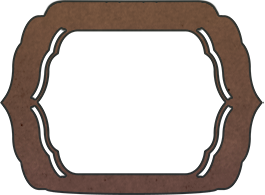
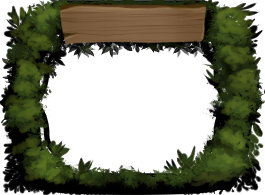
404 Page & Graphics Updates

diff --git a/subscribe.html b/subscribe.html
@@ -1,0 +1,121 @@
+<!--
+!! DO NOT EDIT THIS FILE !!
+It is auto-generated and any work you do here will be replaced the next time this page is generated.
+If you want to edit any of these files, edit their *.tpl versions in src/templates.
+-->
+
+<!DOCTYPE html>
+<html lang="en">
+<head>
+    <meta charset="UTF-8">
+    <link rel="stylesheet" type="text/css" href="src/css/style.css">
+    <link href="https://fonts.googleapis.com/css?family=Rubik|Underdog&display=swap" rel="stylesheet">
+    <link rel="stylesheet" type="text/css" href="./src/css/icons.css">
+
+    <link rel="icon" href="/comic_git/favicon.ico" type="image/x-icon" />
+    <title>Subscribe by Email | Tamberlane</title>
+</head>
+<body>
+
+<header>
+    <div id="logo">
+        <a href="/comic_git"></a>
+    </div>
+    <div id="ComicLinks">
+        <div id="FirstComic"><a href="/comic_git/comic/197.html#comic-page">Page 1</a></div>
+        <div id="LatestComic"><a href="/comic_git/comic/203.html#comic-page">Page 203</a></div>
+        <div id="FirstComicFrame"><h2>Start Here</h2></div>
+        <div id="Flourish"></div>
+        <div id="LatestComicFrame"><h2>Latest Page</h2></div>
+    </div>
+    <ul id="social-links">
+        <li><span>&#9753;</span></li>
+        <li><a href="https://www.webtoons.com/en/challenge/tamberlane/list?title_no=372674" title="Read Tamberlane on Webtoon"><i class="icon-webtoon"><span style="color: #663403;" class="Label">&nbsp;Webtoons</span></i></a></li>
+        <li><a href="http://www.twitter.com/tamberlanecomic" title="Get Updates on Twitter"><i class="icon-twitter"><span style="color: #663403;" class="Label">&nbsp;Twitter</span></i></a></li>
+        <li><a href="https://www.facebook.com/groups/209745269853069/" title="Get Updates on Facebook"><i class="icon-facebook"><span style="color: #663403;" class="Label">&nbsp;Facebook</span></i></a></li>
+        <li><a href="http://tamberlanecomic.tumblr.com/" title="Get Updates on Tumblr"><i class="icon-tumblr"><span style="color: #663403;" class="Label">&nbsp;Tumblr</span></i></a></li>
+        <li><a href="http://www.twitch.tv/tamberlanecomic" title="Watch Comic Livestreams on Twitch"><i class="icon-twitch"><span style="color: #663403;" class="Label">&nbsp;Twitch</span></i></a></li>
+        <li><a href="http://www.youtube.com/c/pixelprism" title="Watch Speeddraws on YouTube"><i class="icon-youtube-play"><span style="color: #663403;" class="Label">&nbsp;YouTube</span></i></a></li>
+        <li><a href="https://www.tamberlanecomic.com/feed/"><i class="icon-rss" title="Subscribe on RSS"><span style="color: #663403;" class="Label">&nbsp;RSS</span></i></a></li>
+        <li><a href="/comic_git/subscribe.html" title="Subscribe via Email"><i class="icon-envelope"><span style="color: #663403;" class="Label">&nbsp;Subscribe</span></i></a></li>
+        <li><span>&#10087;</span></li>
+    </ul>
+    <ul id="links-menu">
+        <li><h3><a href="/comic_git/latest.html">Latest</a></h3></li>
+        <li><h3><a href="/comic_git/archive.html">Archive</a></h3></li>
+        <li><h3><a href="/comic_git/about.html">About</a></h3></li>
+        <li><h3><a href="/comic_git/cast.html">Cast</a></h3></li>
+        <li><h3><a href="https://shop.tamberlanecomic.com">Shop</a></h3></li>
+        <li><h3><a href="http://www.patreon.com/tamberlane">Patreon</a></h3></li>
+        <li class="liveStream"><a href="http://www.twitch.tv/tamberlanecomic"><i class="icon-twitch"></i><h3>&nbsp;Now Live</h3></a></li>
+    </ul>
+
+</header>
+<div id="page">
+        
+<div class="content">
+    <style type="text/css">
+        #mc-embedded-subscribe-form input[type=checkbox]{display: inline; width: auto;margin-right: 10px;}
+        #mergeRow-gdpr {margin-top: 20px;}
+        #mergeRow-gdpr fieldset label {font-weight: normal;}
+        #mc-embedded-subscribe-form .mc_fieldset{border:none;min-height: 0px;padding-bottom:0px;}
+    </style>
+    <div id="mc_embed_signup">
+        <form action="https://tamberlanecomic.us14.list-manage.com/subscribe/post?u=1019a29148e4e5193c1f0bbdd&amp;id=6612f3a2e9" method="post" id="mc-embedded-subscribe-form" name="mc-embedded-subscribe-form" class="validate" target="_blank" novalidate>
+            <div id="mc_embed_signup_scroll">
+                <h2>Subscribe</h2>
+                <div class="indicates-required"><span><span class="asterisk">*</span> indicates required</span></div>
+                <div class="mc-field-group">
+                    <label for="mce-EMAIL">Email Address  <span class="asterisk">*</span>
+                    </label>
+                    <input type="email" value="" name="EMAIL" class="required email" id="mce-EMAIL">
+                </div>
+                <div class="mc-field-group">
+                    <label for="mce-FNAME">First Name </label>
+                    <input type="text" value="" name="FNAME" class="" id="mce-FNAME">
+                </div>
+                <div class="mc-field-group input-group">
+                    <b>Please email me: </b>
+                    <ul><li><input type="checkbox" value="1" name="group[6335][1]" id="mce-group[6335]-6335-0"><label for="mce-group[6335]-6335-0">Comic Updates</label></li>
+                        <li><input type="checkbox" value="2" name="group[6335][2]" id="mce-group[6335]-6335-1"><label for="mce-group[6335]-6335-1">New Merch &amp; Sales</label></li>
+                        <li><input type="checkbox" value="4" name="group[6335][4]" id="mce-group[6335]-6335-2"><label for="mce-group[6335]-6335-2">News &amp; Kickstarters</label></li>
+                    </ul>
+                </div>
+                <p>Unsure what kind of content we send? Not to worry! You can always <a href="https://us14.campaign-archive.com/home/?u=1019a29148e4e5193c1f0bbdd&id=6612f3a2e9" title="View previous campaigns">view our previous emails</a>.</p>
+                <div id="mergeRow-gdpr" class="mergeRow gdpr-mergeRow content__gdprBlock mc-field-group">
+                    <div class="content__gdpr">
+                        <h3>Marketing Permissions</h3>
+                        <p>Tamberlane will use the information you provide on this form to be in touch with you and to provide updates and marketing. Please let us know all the ways you would like to hear from us:</p>
+                        <fieldset class="mc_fieldset gdprRequired mc-field-group" name="interestgroup_field">
+                            <label class="checkbox subfield" for="gdpr_5731"><input type="checkbox" id="gdpr_5731" name="gdpr[5731]" value="Y" class="av-checkbox "><span>Email</span> </label>
+                        </fieldset>
+                        <p>You can change your mind at any time by clicking the unsubscribe link in the footer of any email you receive from us, or by contacting us at artist@cvilbrandt.com. We will treat your information with respect. For more information about our privacy practices please visit our website. By clicking below, you agree that we may process your information in accordance with these terms.</p>
+                    </div>
+                    <div class="content__gdprLegal">
+                        <p>We use Mailchimp as our marketing platform. By clicking below to subscribe, you acknowledge that your information will be transferred to Mailchimp for processing. <a href="https://mailchimp.com/legal/" target="_blank">Learn more about Mailchimp's privacy practices here.</a></p>
+                    </div>
+                </div>
+                <div id="mce-responses" class="clear">
+                    <div class="response" id="mce-error-response" style="display:none"></div>
+                    <div class="response" id="mce-success-response" style="display:none"></div>
+                </div>    <!-- real people should not fill this in and expect good things - do not remove this or risk form bot signups-->
+                <div style="position: absolute; left: -5000px;" aria-hidden="true"><input type="text" name="b_1019a29148e4e5193c1f0bbdd_6612f3a2e9" tabindex="-1" value=""></div>
+                <div class="clear"><input type="submit" value="Subscribe" name="subscribe" id="mc-embedded-subscribe" class="button"></div>
+            </div>
+        </form>
+    </div>
+
+    <!--End mc_embed_signup-->
+</div>
+
+</div>
+
+<div id="footer">
+    <p>Tamberlane is powered by <a href="https://github.com/ryanvilbrandt/comic_git/">comic_git</a>. &copy; Caytlin Vilbrandt, 2016 - Present.</p>
+</div>
+
+
+</body>
+
+<script src="./src/js/main.js"></script>
+</html>

diff --git a/about.html b/about.html
@@ -37,7 +37,7 @@ If you want to edit any of these files, edit their *.tpl versions in src/templat
         <li><a href="http://www.twitch.tv/tamberlanecomic" title="Watch Comic Livestreams on Twitch"><i class="icon-twitch"><span style="color: #663403;" class="Label">&nbsp;Twitch</span></i></a></li>
         <li><a href="http://www.youtube.com/c/pixelprism" title="Watch Speeddraws on YouTube"><i class="icon-youtube-play"><span style="color: #663403;" class="Label">&nbsp;YouTube</span></i></a></li>
         <li><a href="https://www.tamberlanecomic.com/feed/"><i class="icon-rss" title="Subscribe on RSS"><span style="color: #663403;" class="Label">&nbsp;RSS</span></i></a></li>
-        <li><a href="http://www.webtoons.com" title="Subscribe via Email"><i class="icon-envelope"><span style="color: #663403;" class="Label">&nbsp;Subscribe</span></i></a></li>
+        <li><a href="/comic_git/subscribe.html" title="Subscribe via Email"><i class="icon-envelope"><span style="color: #663403;" class="Label">&nbsp;Subscribe</span></i></a></li>
         <li><span>&#10087;</span></li>
     </ul>
     <ul id="links-menu">
@@ -53,7 +53,20 @@ If you want to edit any of these files, edit their *.tpl versions in src/templat
 </header>
 <div id="page">
         
-<div class="content"></div>
+<div class="content">
+    <div id="about-text"><p>Tamberlane is written, drawn, and maintained by Caytlin Vilbrandt.</p>
+
+        Otherwise known as Pixel Prism, Caytlin lives in the Pacific Northwest with her husband and fuzzy pets, drawing comics for a living. She was inspired by childhood memories when she came up with Tamberlane as an homage to the works of Beatrix Potter, as well as Brian Jacques's Redwall series and other wonderful books. (Other more contemporary inspirations include Steven Universe, Wolf Children, and Moana.) She is also an LGBTQ+ creator and enjoys creating fiction with queer characters doing things that have nothing to do with being queer. She also feels ever-so-slightly weird writing this bio in the third person, but she will nonetheless persevere!
+
+        Caytlin also lives with chronic pain and occasionally has to take short breaks from the comic so she can heal, much to her deep regret. Thanks for your patience!
+
+        You can contact her at artist@cvilbrandt.com.</div>
+    <div id="about-photo"></div>
+</div>
+
+<div class="content">
+    <div id="reviews"></div>
+</div>
 
 </div>
 

diff --git a/404.html b/404.html
@@ -37,7 +37,7 @@ If you want to edit any of these files, edit their *.tpl versions in src/templat
         <li><a href="http://www.twitch.tv/tamberlanecomic" title="Watch Comic Livestreams on Twitch"><i class="icon-twitch"><span style="color: #663403;" class="Label">&nbsp;Twitch</span></i></a></li>
         <li><a href="http://www.youtube.com/c/pixelprism" title="Watch Speeddraws on YouTube"><i class="icon-youtube-play"><span style="color: #663403;" class="Label">&nbsp;YouTube</span></i></a></li>
         <li><a href="https://www.tamberlanecomic.com/feed/"><i class="icon-rss" title="Subscribe on RSS"><span style="color: #663403;" class="Label">&nbsp;RSS</span></i></a></li>
-        <li><a href="http://www.webtoons.com" title="Subscribe via Email"><i class="icon-envelope"><span style="color: #663403;" class="Label">&nbsp;Subscribe</span></i></a></li>
+        <li><a href="/comic_git/subscribe.html" title="Subscribe via Email"><i class="icon-envelope"><span style="color: #663403;" class="Label">&nbsp;Subscribe</span></i></a></li>
         <li><span>&#10087;</span></li>
     </ul>
     <ul id="links-menu">
@@ -53,9 +53,14 @@ If you want to edit any of these files, edit their *.tpl versions in src/templat
 </header>
 <div id="page">
         
-<div class="content">
-    <div id="page-title"><h1>404: Page Not Found</h1></div>
-<p>THIS SHIT BROKE YO!</p>
+<div id="page404">
+    <div id="belfry404"></div>
+    <div id="content404">
+        <div id="page-title"><h1>404: Page Not Found</h1></div>
+        <p>Whoopsidoodle! Whatever page you were looking for, it looks like Belfry misplaced it! Sorry about that...</p>
+        <p>Check the spelling in your URL, or maybe try one of these links on for size:</p>
+        <p><a href="/index.html">Home</a> &nbsp;|&nbsp; <a href="/latest.html">Latest Comic</a> &nbsp;|&nbsp; <a href="https://shop.tamberlanecomic.com">Shop</a></p>
+    </div>
 </div>
 <!--    <h1 id="page-title">&#9753; Archive &#10087;</h1>-->
 <!--    <div id="archive-blurb">-->

diff --git a/cast.html b/cast.html
@@ -39,7 +39,7 @@ If you want to edit any of these files, edit their *.tpl versions in src/templat
         <li><a href="http://www.twitch.tv/tamberlanecomic" title="Watch Comic Livestreams on Twitch"><i class="icon-twitch"><span style="color: #663403;" class="Label">&nbsp;Twitch</span></i></a></li>
         <li><a href="http://www.youtube.com/c/pixelprism" title="Watch Speeddraws on YouTube"><i class="icon-youtube-play"><span style="color: #663403;" class="Label">&nbsp;YouTube</span></i></a></li>
         <li><a href="https://www.tamberlanecomic.com/feed/"><i class="icon-rss" title="Subscribe on RSS"><span style="color: #663403;" class="Label">&nbsp;RSS</span></i></a></li>
-        <li><a href="http://www.webtoons.com" title="Subscribe via Email"><i class="icon-envelope"><span style="color: #663403;" class="Label">&nbsp;Subscribe</span></i></a></li>
+        <li><a href="/comic_git/subscribe.html" title="Subscribe via Email"><i class="icon-envelope"><span style="color: #663403;" class="Label">&nbsp;Subscribe</span></i></a></li>
         <li><span>&#10087;</span></li>
     </ul>
     <ul id="links-menu">
@@ -62,6 +62,7 @@ If you want to edit any of these files, edit their *.tpl versions in src/templat
         flavor to the comic’s plot through their bold personalities and evolving, complex
         relationships with one another.</p>
     <p>Click on each character portrait to learn more about them!</p>
+    <noscript>This page needs javascript to work! Don't worry, it's very lightweight and doesn't trace your information.</noscript>
 </div>
 <div id="primary-cast" class="cast-section">
     <h2 id="PrimaryCastTitle">Primary Cast<a name="top"></a></h2>

diff --git a/src/css/style.css b/src/css/style.css
@@ -19,7 +19,7 @@ body {
     background-size: cover;
 }
 
-p, ul, a, em, b, span {
+p, ul, a, em, b, span, label {
     font-family:'Rubik',sans-serif;
     color: #341a09;
 }
@@ -147,7 +147,7 @@ header #FirstComicFrame, #LatestComicFrame {
 }
 
 #FirstComicFrame h2, #LatestComicFrame h2 {
-    margin-top: 3px;
+    margin-top: 12px;
     font-variant: small-caps;
     font-size: 1.3em;
 }
@@ -323,10 +323,11 @@ ul#links-menu .liveStream a {
 
 .content {
     background-color: #FDF1DC;
-    box-shadow: 0 0 15px black;
+    box-shadow: 0 15px 15px black;
     max-width: 75%;
     padding: 30px;
     margin: auto;
+    z-index: 1;
 }
 
 #index-image {
@@ -653,6 +654,45 @@ ul#links-menu .liveStream a {
 
 #gillian-photo { background-image: url("../../your_content/images/cast/Gillian.png");}
 #winnie-photo { background-image: url("../../your_content/images/cast/Winnie.png");}
+
+#belfry404 {
+    background-image: url("../../your_content/images/404.png");
+    background-repeat: no-repeat;
+    background-size: cover;
+    background-position: center;
+    margin: 0 auto -50px auto;
+    max-width: 100%;
+    height: 500px;
+    z-index: 5;
+    padding: 0.5em;
+    position: relative;
+}
+
+#page404 {
+    max-width: 75%;
+    box-shadow: 0 0 15px black;
+    margin: auto;
+}
+
+#content404 {
+    background-color: #FDF1DC;
+    padding: 50px 30px 30px 30px;
+    margin: auto;
+    z-index: 1;
+    text-align: center;
+}
+
+.mc-field-group {
+    padding-top: 5px;
+}
+
+.mc-field-group.input-group {
+    padding-top: 15px;
+}
+
+.mc-field-group li {
+    list-style-type: none;
+}
 
 #footer {
     border-top: #341a09 solid 30px;

diff --git a/archive.html b/archive.html
@@ -37,7 +37,7 @@ If you want to edit any of these files, edit their *.tpl versions in src/templat
         <li><a href="http://www.twitch.tv/tamberlanecomic" title="Watch Comic Livestreams on Twitch"><i class="icon-twitch"><span style="color: #663403;" class="Label">&nbsp;Twitch</span></i></a></li>
         <li><a href="http://www.youtube.com/c/pixelprism" title="Watch Speeddraws on YouTube"><i class="icon-youtube-play"><span style="color: #663403;" class="Label">&nbsp;YouTube</span></i></a></li>
         <li><a href="https://www.tamberlanecomic.com/feed/"><i class="icon-rss" title="Subscribe on RSS"><span style="color: #663403;" class="Label">&nbsp;RSS</span></i></a></li>
-        <li><a href="http://www.webtoons.com" title="Subscribe via Email"><i class="icon-envelope"><span style="color: #663403;" class="Label">&nbsp;Subscribe</span></i></a></li>
+        <li><a href="/comic_git/subscribe.html" title="Subscribe via Email"><i class="icon-envelope"><span style="color: #663403;" class="Label">&nbsp;Subscribe</span></i></a></li>
         <li><span>&#10087;</span></li>
     </ul>
     <ul id="links-menu">

diff --git a/index.html b/index.html
@@ -37,7 +37,7 @@ If you want to edit any of these files, edit their *.tpl versions in src/templat
         <li><a href="http://www.twitch.tv/tamberlanecomic" title="Watch Comic Livestreams on Twitch"><i class="icon-twitch"><span style="color: #663403;" class="Label">&nbsp;Twitch</span></i></a></li>
         <li><a href="http://www.youtube.com/c/pixelprism" title="Watch Speeddraws on YouTube"><i class="icon-youtube-play"><span style="color: #663403;" class="Label">&nbsp;YouTube</span></i></a></li>
         <li><a href="https://www.tamberlanecomic.com/feed/"><i class="icon-rss" title="Subscribe on RSS"><span style="color: #663403;" class="Label">&nbsp;RSS</span></i></a></li>
-        <li><a href="http://www.webtoons.com" title="Subscribe via Email"><i class="icon-envelope"><span style="color: #663403;" class="Label">&nbsp;Subscribe</span></i></a></li>
+        <li><a href="/comic_git/subscribe.html" title="Subscribe via Email"><i class="icon-envelope"><span style="color: #663403;" class="Label">&nbsp;Subscribe</span></i></a></li>
         <li><span>&#10087;</span></li>
     </ul>
     <ul id="links-menu">

diff --git a/infinite_scroll.html b/infinite_scroll.html
@@ -37,7 +37,7 @@ If you want to edit any of these files, edit their *.tpl versions in src/templat
         <li><a href="http://www.twitch.tv/tamberlanecomic" title="Watch Comic Livestreams on Twitch"><i class="icon-twitch"><span style="color: #663403;" class="Label">&nbsp;Twitch</span></i></a></li>
         <li><a href="http://www.youtube.com/c/pixelprism" title="Watch Speeddraws on YouTube"><i class="icon-youtube-play"><span style="color: #663403;" class="Label">&nbsp;YouTube</span></i></a></li>
         <li><a href="https://www.tamberlanecomic.com/feed/"><i class="icon-rss" title="Subscribe on RSS"><span style="color: #663403;" class="Label">&nbsp;RSS</span></i></a></li>
-        <li><a href="http://www.webtoons.com" title="Subscribe via Email"><i class="icon-envelope"><span style="color: #663403;" class="Label">&nbsp;Subscribe</span></i></a></li>
+        <li><a href="/comic_git/subscribe.html" title="Subscribe via Email"><i class="icon-envelope"><span style="color: #663403;" class="Label">&nbsp;Subscribe</span></i></a></li>
         <li><span>&#10087;</span></li>
     </ul>
     <ul id="links-menu">

diff --git a/patreon-cast.html b/patreon-cast.html
@@ -37,7 +37,7 @@ If you want to edit any of these files, edit their *.tpl versions in src/templat
         <li><a href="http://www.twitch.tv/tamberlanecomic" title="Watch Comic Livestreams on Twitch"><i class="icon-twitch"><span style="color: #663403;" class="Label">&nbsp;Twitch</span></i></a></li>
         <li><a href="http://www.youtube.com/c/pixelprism" title="Watch Speeddraws on YouTube"><i class="icon-youtube-play"><span style="color: #663403;" class="Label">&nbsp;YouTube</span></i></a></li>
         <li><a href="https://www.tamberlanecomic.com/feed/"><i class="icon-rss" title="Subscribe on RSS"><span style="color: #663403;" class="Label">&nbsp;RSS</span></i></a></li>
-        <li><a href="http://www.webtoons.com" title="Subscribe via Email"><i class="icon-envelope"><span style="color: #663403;" class="Label">&nbsp;Subscribe</span></i></a></li>
+        <li><a href="/comic_git/subscribe.html" title="Subscribe via Email"><i class="icon-envelope"><span style="color: #663403;" class="Label">&nbsp;Subscribe</span></i></a></li>
         <li><span>&#10087;</span></li>
     </ul>
     <ul id="links-menu">

diff --git a/tagged.html b/tagged.html
@@ -37,7 +37,7 @@ If you want to edit any of these files, edit their *.tpl versions in src/templat
         <li><a href="http://www.twitch.tv/tamberlanecomic" title="Watch Comic Livestreams on Twitch"><i class="icon-twitch"><span style="color: #663403;" class="Label">&nbsp;Twitch</span></i></a></li>
         <li><a href="http://www.youtube.com/c/pixelprism" title="Watch Speeddraws on YouTube"><i class="icon-youtube-play"><span style="color: #663403;" class="Label">&nbsp;YouTube</span></i></a></li>
         <li><a href="https://www.tamberlanecomic.com/feed/"><i class="icon-rss" title="Subscribe on RSS"><span style="color: #663403;" class="Label">&nbsp;RSS</span></i></a></li>
-        <li><a href="http://www.webtoons.com" title="Subscribe via Email"><i class="icon-envelope"><span style="color: #663403;" class="Label">&nbsp;Subscribe</span></i></a></li>
+        <li><a href="/comic_git/subscribe.html" title="Subscribe via Email"><i class="icon-envelope"><span style="color: #663403;" class="Label">&nbsp;Subscribe</span></i></a></li>
         <li><span>&#10087;</span></li>
     </ul>
     <ul id="links-menu">

diff --git a/src/scripts/build_site.py b/src/scripts/build_site.py
@@ -47,7 +47,7 @@ def get_links_list(comic_info: RawConfigParser):
 def delete_output_file_space():
     shutil.rmtree("comic", ignore_errors=True)
     for f in ["index.html", "archive.html", "tagged.html", "feed.xml", "infinite_scroll.html", "latest.html",
-              "cast.html", "about.html", "404.html", "patreon-cast.html"]:
+              "cast.html", "about.html", "404.html", "patreon-cast.html", "subscribe.html"]:
         if os.path.isfile(f):
             os.remove(f)
 
@@ -265,9 +265,13 @@ def write_archive_page(comic_info: RawConfigParser, comic_data_dicts: List[Dict]
     })
 
 
+def write_subscribe_page():
+    print("Building subscribe page...")
+    write_to_template("subscribe.tpl", "subscribe.html", {"page_title": "Subscribe by Email"})
+
 def write_tagged_page():
-    print("Building tagged page...")
-    write_to_template("tagged.tpl", "tagged.html", {"page_title": "Tagged posts"})
+        print("Building tagged page...")
+        write_to_template("tagged.tpl", "tagged.html", {"page_title": "Tagged posts"})
 
 def write_cast_page():
     print("Building cast page...")
@@ -352,6 +356,7 @@ def main():
     write_about_page()
     write_404_page()
     write_patreon_cast_page()
+    write_subscribe_page()
     write_infinite_scroll_page(comic_info, comic_data_dicts)
     processing_times.append(("Write HTML files", time()))
 
